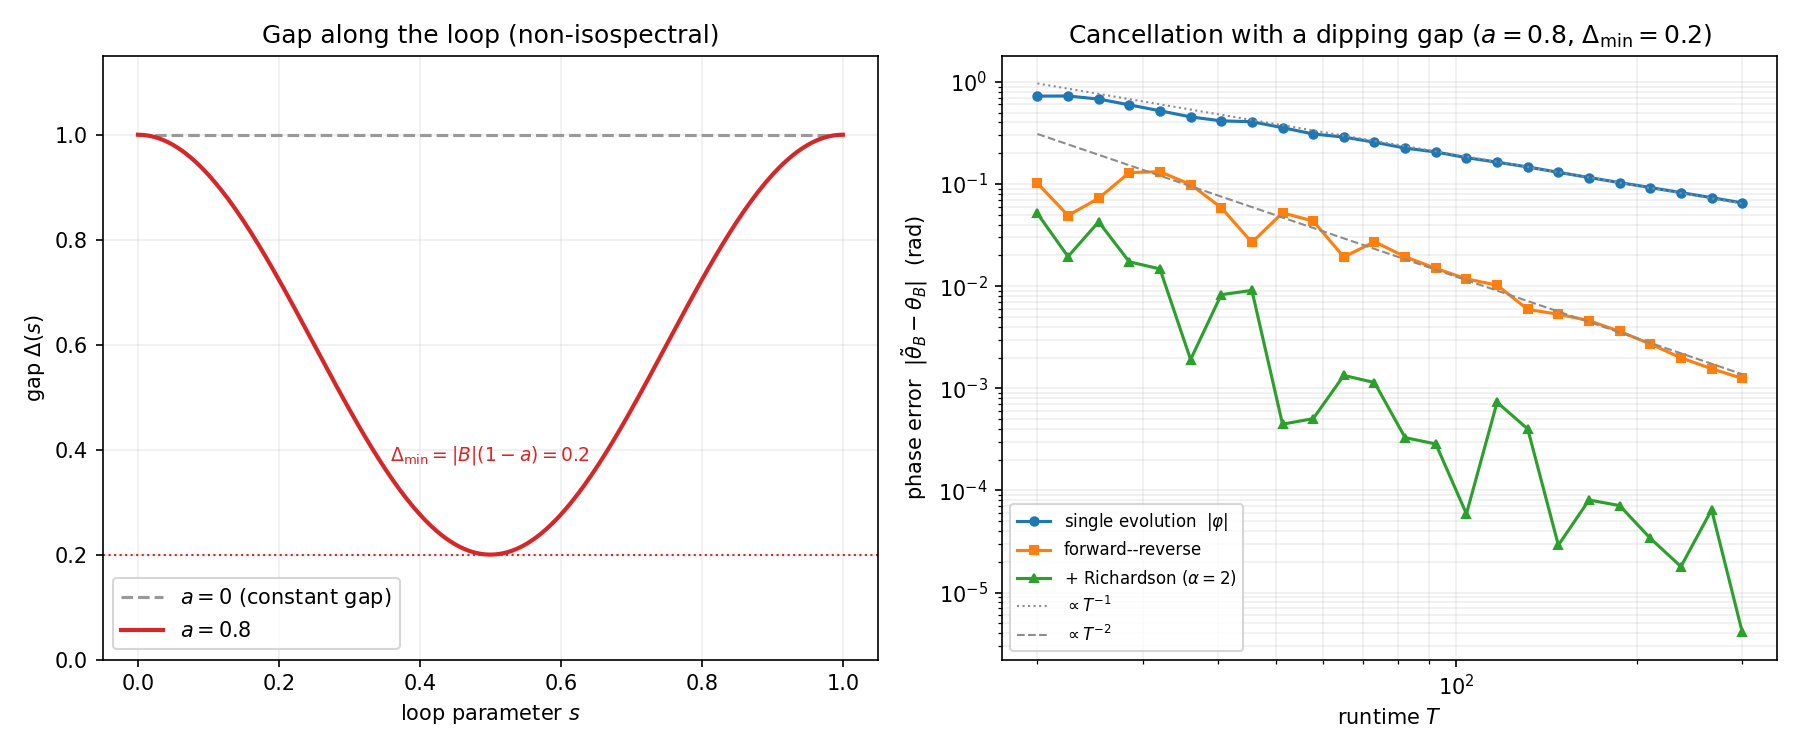
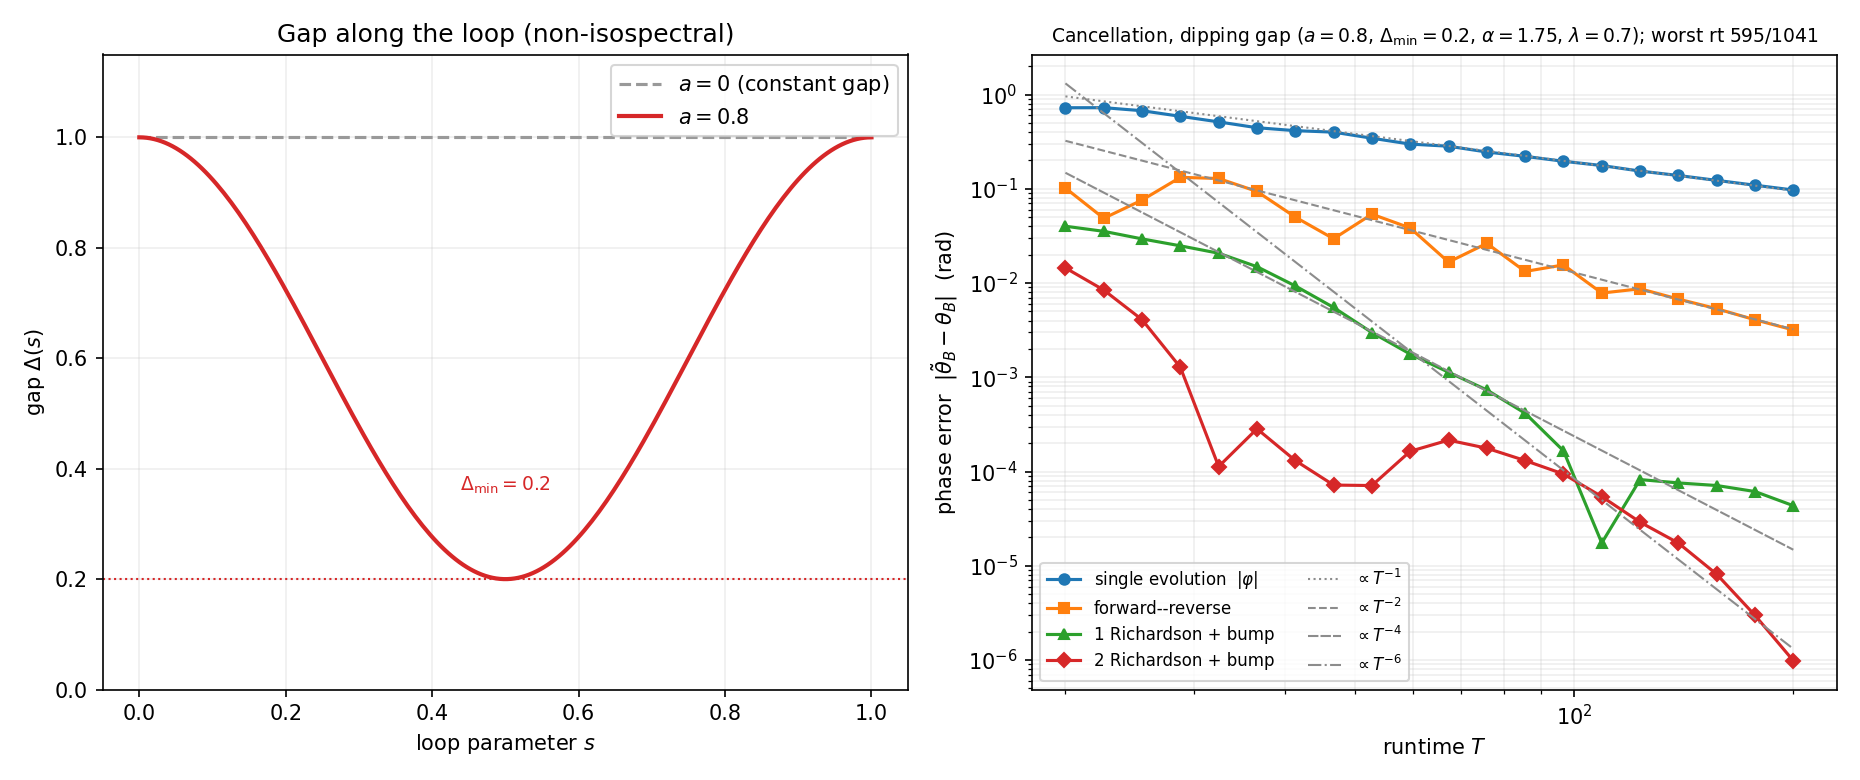
Make fig_gap_dip mirror the scaling.png cascade on the dipping-gap loop
Right panel now shows the same four curves as scaling.png (single, forward-reverse,
1 Richardson + bump, 2 Richardson + bump; same alpha=1.75, lambda=0.7, C^inf bump)
on the non-isospectral gap_dip=0.8 loop, with the gap Delta(s) on the left. The T
range is shifted up (T in [20,200]) since the small mid-loop gap (Delta_min=0.2)
delays the adiabatic regime. scaling.png itself is unchanged.

diff --git a/experiments/fig_gap_dip.py b/experiments/fig_gap_dip.py
@@ -1,15 +1,14 @@
-r"""Non-isospectral loop: a gap that dips in the middle.
+r"""Adiabatic error cancellation on a non-isospectral loop (dipping gap).
 
-Modulating the field magnitude, B(s) = |B| g(s) n(s) with g(s) = 1 - a sin^2(pi s),
-makes the gap vary along the loop -- large at the endpoints (|B|), small in the
-middle (|B|(1-a)) -- without changing the Berry phase (which depends only on the
-field direction). This is a genuinely non-isospectral loop, unlike the rigid
-rotations elsewhere in this repo.
+Same cascade as fig_scaling.py (single / forward-reverse / 1 Richardson + bump /
+2 Richardson + bump, same alpha, lambda, C^inf bump), but on a loop whose gap
+varies: modulating the field magnitude, |B(s)| = |B|(1 - a sin^2(pi s)), makes the
+gap |B| at the endpoints and Delta_min = |B|(1-a) in the middle, without changing
+the Berry phase. This shows the cancellation survives when the loop is genuinely
+non-isospectral.
 
-Left panel:  Delta(s) along the loop for a = 0 and a = 0.8.
-Right panel: the error cascade (single / forward-reverse / Richardson) for a = 0.8;
-             the cancellation still works, with errors set by the smaller mid-loop
-             gap Delta_min = |B|(1-a).
+Left panel:  Delta(s) along the loop (constant-gap reference vs the dip).
+Right panel: the error cascade vs runtime T.
 
 Run with:  uv run python experiments/fig_gap_dip.py
 Writes:    figures/gap_dip.png
@@ -25,32 +24,36 @@ import numpy as np
 from berry_cancellation import SpinHalfLoop
 from berry_cancellation.estimators import (
     forward_reverse_error,
-    richardson_error,
+    randomized_richardson_bias,
     single_phase_error,
 )
 
 FIG_DIR = Path(__file__).resolve().parent.parent / "figures"
 
-A = 0.8  # gap-dip amplitude
+A = 0.8            # gap-dip amplitude
+LAM = 0.7          # same as fig_scaling.py
+ALPHA = 1.75
+T_MIN = 20.0       # shifted up: the small mid-loop gap delays the adiabatic regime
+T_MAX = 200.0
+N_POINTS = 20
 
 
 def main() -> None:
     model = SpinHalfLoop(gap_dip=A)
     print(f"gap_dip a={A}: gap(endpoints)={model.field:.2f}, "
-          f"gap(min)={model.gap:.2f}, theta_B={model.berry_phase:.4f}")
+          f"Delta_min={model.gap:.2f}, theta_B={model.berry_phase:.4f}")
 
-    fig, (axL, axR) = plt.subplots(1, 2, figsize=(12.0, 5.0))
+    fig, (axL, axR) = plt.subplots(1, 2, figsize=(12.4, 5.2))
 
     # --- Left: Delta(s) along the loop --------------------------------------
     s = np.linspace(0.0, 1.0, 200)
-    axL.plot(s, [SpinHalfLoop(gap_dip=0.0).gap_at(si) for si in s], "--",
-             color="0.6", label=r"$a=0$ (constant gap)")
+    axL.plot(s, np.ones_like(s) * model.field, "--", color="0.6",
+             label=r"$a=0$ (constant gap)")
     axL.plot(s, [model.gap_at(si) for si in s], "-", color="C3", lw=2,
              label=rf"$a={A}$")
     axL.axhline(model.gap, color="C3", ls=":", lw=1)
-    axL.annotate(rf"$\Delta_{{\min}}=|B|(1-a)={model.gap:.1f}$",
-                 xy=(0.5, model.gap), xytext=(0.5, model.gap + 0.18),
-                 ha="center", fontsize=9, color="C3")
+    axL.annotate(rf"$\Delta_{{\min}}={model.gap:.1f}$", xy=(0.5, model.gap),
+                 xytext=(0.5, model.gap + 0.16), ha="center", fontsize=9, color="C3")
     axL.set_xlabel("loop parameter $s$")
     axL.set_ylabel(r"gap $\Delta(s)$")
     axL.set_title("Gap along the loop (non-isospectral)")
@@ -58,25 +61,42 @@ def main() -> None:
     axL.legend()
     axL.grid(True, alpha=0.2)
 
-    # --- Right: error cascade at a = 0.8 ------------------------------------
-    T = np.geomspace(20.0, 300.0, 24)
-    e_single = single_phase_error(model, T)
-    e_fr = forward_reverse_error(model, T)
-    e_rich = richardson_error(model, T)
-    axR.loglog(T, e_single, "o-", ms=4, color="C0",
+    # --- Right: error cascade (same curves as scaling.png) ------------------
+    T = np.geomspace(T_MIN, T_MAX, N_POINTS)
+    alpha = ALPHA
+    print("single ..."); e_single = single_phase_error(model, T)
+    print("forward-reverse ..."); e_fr = forward_reverse_error(model, T)
+    print("1 Richardson + bump ...")
+    e_bump1 = randomized_richardson_bias(model, T, alpha=alpha, lam=LAM,
+                                         levels=1, dist="bump", n_nodes=129)
+    print("2 Richardson + bump ...")
+    e_bump2 = randomized_richardson_bias(model, T, alpha=alpha, lam=LAM,
+                                         levels=2, dist="bump", n_nodes=129)
+
+    axR.loglog(T, e_single, "o-", ms=5, color="C0",
                label=r"single evolution  $|\varphi|$")
-    axR.loglog(T, e_fr, "s-", ms=4, color="C1", label=r"forward--reverse")
-    axR.loglog(T, e_rich, "^-", ms=4, color="C2", label=r"+ Richardson ($\alpha=2$)")
-    tail = T >= np.sqrt(20.0 * 300.0)
-    for power, e, style in [(-1, e_single, ":"), (-2, e_fr, "--")]:
+    axR.loglog(T, e_fr, "s-", ms=5, color="C1", label=r"forward--reverse")
+    axR.loglog(T, e_bump1, "^-", ms=5, color="C2", label=r"1 Richardson + bump")
+    axR.loglog(T, e_bump2, "D-", ms=5, color="C3", label=r"2 Richardson + bump")
+
+    tail = T >= np.sqrt(T_MIN * T_MAX)
+    for power, e, style in [
+        (-1, e_single, ":"), (-2, e_fr, "--"),
+        (-4, e_bump1, (0, (5, 1))), (-6, e_bump2, "-."),
+    ]:
         c = np.median(e[tail] / T[tail] ** power)
         axR.loglog(T, c * T ** power, color="0.55", lw=1.0, linestyle=style,
                    label=rf"$\propto T^{{{power}}}$")
+
+    worst1 = T_MAX * (1.0 + LAM) * alpha
+    worst2 = T_MAX * (1.0 + LAM) * alpha**2
+    axR.set_xlim(T_MIN * 0.9, T_MAX * 1.15)
     axR.set_xlabel("runtime $T$")
     axR.set_ylabel(r"phase error  $|\tilde\theta_B - \theta_B|$  (rad)")
-    axR.set_title(rf"Cancellation with a dipping gap ($a={A}$, "
-                  rf"$\Delta_{{\min}}={model.gap:.1f}$)")
-    axR.legend(fontsize=8)
+    axR.set_title(rf"Cancellation, dipping gap ($a={A}$, $\Delta_{{\min}}={model.gap:.1f}$, "
+                  rf"$\alpha={alpha:g}$, $\lambda={LAM:g}$); "
+                  rf"worst rt {worst1:.0f}/{worst2:.0f}", fontsize=9)
+    axR.legend(fontsize=8, ncol=2, loc="lower left")
     axR.grid(True, which="both", alpha=0.2)
 
     fig.tight_layout()

diff --git a/README.md b/README.md
@@ -101,7 +101,8 @@ berry_cancellation/
 experiments/
   fig_scaling.py          main figure: error vs T for all four estimators
   fig_spin_half_check.py  Berry phase vs analytic half-solid-angle
-  fig_gap_dip.py          non-isospectral loop: gap dips in the middle (a=0.8)
+  fig_gap_dip.py          non-isospectral loop (gap dips to |B|(1-a) in the middle):
+                          Delta(s) + the scaling.png cascade on the dipping-gap loop
   fig_manybody.py         same cancellation cascade on a 4-qubit entangled model
   fig_manybody_check.py   many-body Berry phase vs cone angle (analytic/Wilson/FR)
 tests/